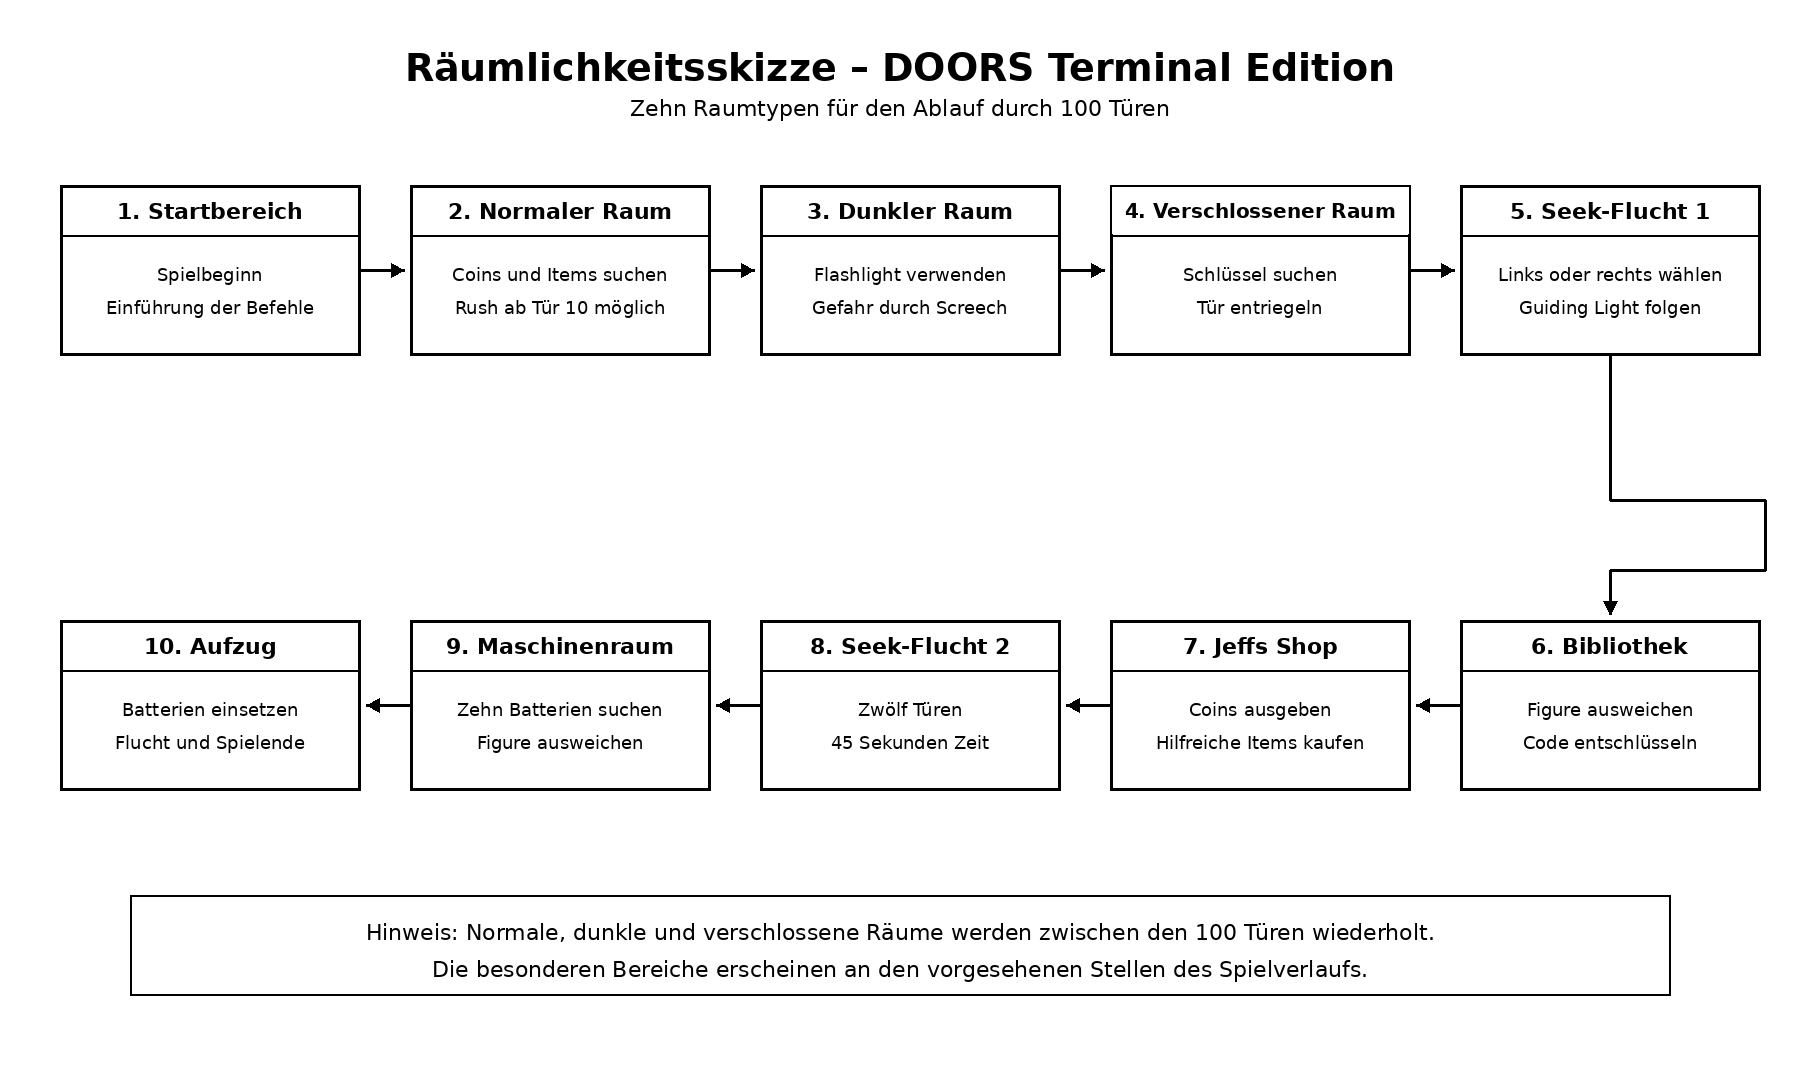
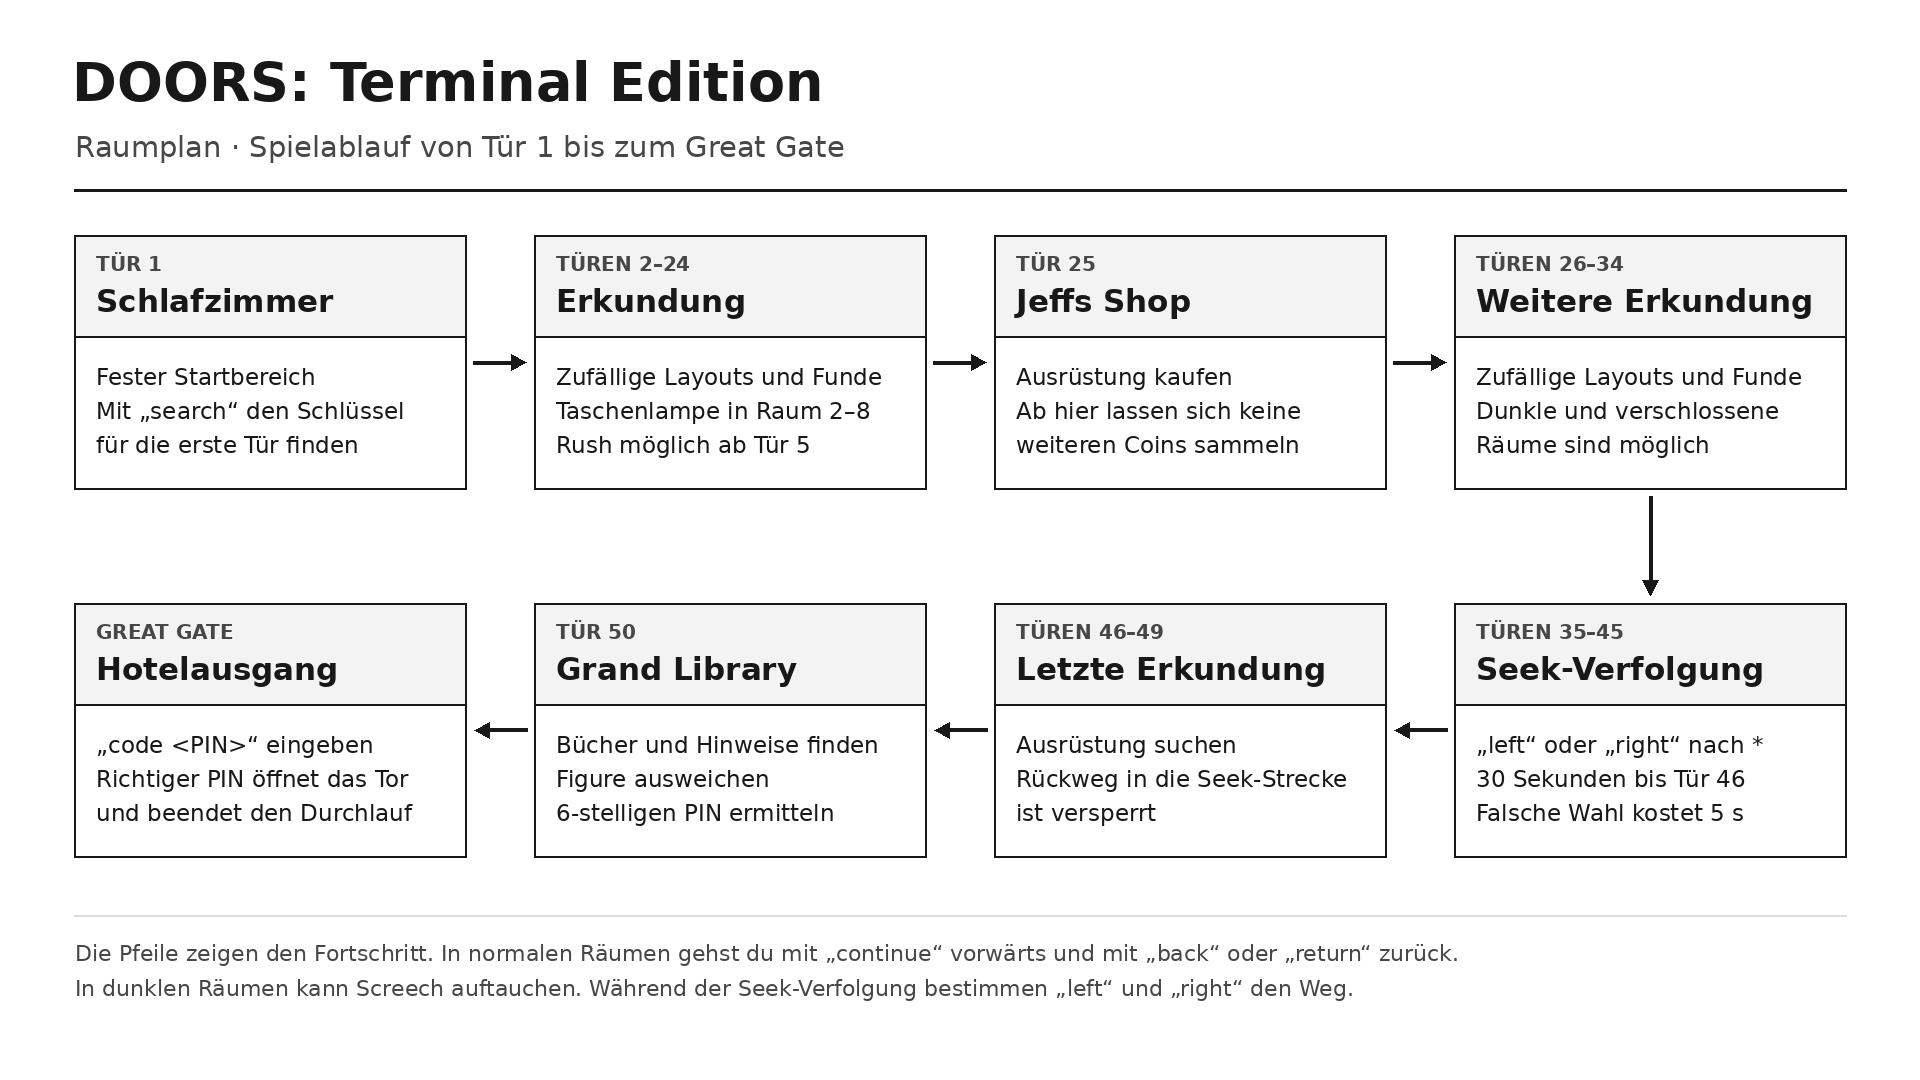
Dateien vollständig aufgereiht, keine Vermischungen

diff --git a/docs/doors-raeumlichkeiten-doc.md b/docs/doors-raeumlichkeiten-doc.md
@@ -1,63 +1,35 @@
 # Dokumentation der Räumlichkeiten
 
-## 1. Übersicht
+## Übersicht
 
-Das Spiel **DOORS: Terminal Edition** besteht aus insgesamt 100 Türen. Da viele Räume während des Spielverlaufs wiederholt oder leicht verändert vorkommen, zeigt die Skizze zehn grundlegende Raumtypen. Diese decken den vollständigen Ablauf vom Spielstart bis zur Flucht mit dem Aufzug ab.
+**DOORS: Terminal Edition** führt vom Schlafzimmer hinter Tür 1 durch ein Hotel mit 50 Räumen. Die Skizze fasst aufeinanderfolgende Räume mit ähnlichem Ablauf zusammen. Jeffs Shop, die Seek-Verfolgung und die Grand Library liegen an festen Stellen.
 
-Die Pfeile stellen die Reihenfolge dar, in welcher der Spieler die verschiedenen Bereiche erreicht. Normale, dunkle und verschlossene Räume können zwischen den besonderen Ereignissen mehrfach vorkommen.
+## Raumskizze
 
-## 2. Raumskizze
+![Raumplan vom Schlafzimmer bis zum Great Gate](../diagrams/doors-raeumlichkeiten-uml.png)
 
-![UML-Skizze der Räumlichkeiten](../diagrams/doors-raeumlichkeiten-uml.png)
+Die Pfeile zeigen den Weg zum Ausgang. In normalen Räumen gehst du mit `continue` vorwärts und mit `back` oder `return` zurück. Während der Verfolgung wählst du mit `left` oder `right` die nächste Tür.
 
-## 3. Beschreibung der Räume
+## Bereiche des Hotels
 
-### 3.1 Startbereich
+| Türen | Bereich | Ablauf |
+| --- | --- | --- |
+| 1 | Schlafzimmer | Fester Start. Mit `search` findest du den Schlüssel zur ersten verschlossenen Tür. |
+| 2–24 | Erkundung | Suche nach Münzen und Ausrüstung. In einem der Räume 2 bis 8 liegt die Taschenlampe. Ab Tür 5 kann Rush erscheinen. |
+| 25 | Jeffs Shop | Kaufe Ausrüstung mit den gesammelten Münzen. Ab dem ersten Erreichen des Shops kannst du keine weiteren Münzen sammeln. |
+| 26–34 | Weitere Erkundung | Durchsuche die Räume vor der Verfolgung. Dunkelheit und verschlossene Ausgänge sind möglich. |
+| 35–45 | Seek-Verfolgung | Nach der Cutscene hast du 30 Sekunden, um Tür 46 zu erreichen. Wähle die mit `*` markierte Seite. Eine falsche Wahl kostet fünf Sekunden. |
+| 46–49 | Letzte Erkundung | Durchsuche die letzten normalen Räume. Der Rückweg in die Seek-Strecke ist versperrt. |
+| 50 | Grand Library | Finde Bücher, entschlüssle den sechsstelligen PIN und weiche Figure aus. Mit dem richtigen PIN öffnest du das Great Gate und gewinnst. |
 
-Im Startbereich beginnt das Spiel. Der Spieler erhält eine kurze Einführung und lernt die grundlegenden Befehle kennen. Von hier aus betritt er den ersten normalen Raum.
+## Normale, dunkle und verschlossene Räume
 
-### 3.2 Normaler Raum
+Die normalen Räume verwenden acht wiederkehrende ASCII-Layouts. Funde und Zustände werden pro Raum festgelegt. Mit `look` kannst du den aktuellen Raum erneut ansehen. `map` zeigt alle Räume und die noch vorhandenen Gegenstände. `>>` markiert deinen Standort.
 
-Der normale Raum bildet den häufigsten Raumtyp. Der Spieler kann den Raum mit `search` nach Coins, Items oder Hinweisen durchsuchen. Ab Tür 10 besteht zusätzlich die Möglichkeit, dass Rush erscheint.
+In dunklen Räumen können `search` und `continue` ohne eingeschaltete, geladene Taschenlampe fehlschlagen. Wenn Screech erscheint, reagierst du mit `peek`. Bei einer verschlossenen Tür liegt ein Schlüssel im jeweiligen Raum. Ein Lockpick kann das Schloss ebenfalls öffnen und wird vor dem Schlüssel verbraucht.
 
-### 3.3 Dunkler Raum
+## Finale in der Grand Library
 
-In einem dunklen Raum ist die Orientierung eingeschränkt. Eine Flashlight erleichtert das Finden von Gegenständen und der nächsten Tür. Ohne Licht kann der Spieler die Tür übersehen. Ausserdem kann Screech erscheinen und dem Spieler bei einer zu langsamen Reaktion Schaden zufügen.
+`source` zeigt die Reihenfolge der sechs Symbole für den PIN. Mit `findbook` findest du die dazugehörigen Ziffern. `notes` listet die bereits gefundenen Zuordnungen. Wenn Figure dich hört, hast du vier Sekunden für `hide`. Nach der Entwarnung kannst du das Versteck mit `unhide` verlassen. Gib den PIN mit `code <PIN>` ein, um das Great Gate zu öffnen.
 
-### 3.4 Verschlossener Raum
-
-Die Ausgangstür dieses Raumes ist verriegelt. Der Spieler muss den Raum durchsuchen und den passenden Schlüssel finden, bevor er weitergehen kann. In einem dunklen, verschlossenen Raum ist die Suche zusätzlich erschwert.
-
-### 3.5 Erste Seek-Flucht
-
-Bei Tür 35 beginnt die erste Verfolgung durch Seek. In jedem Abschnitt muss der Spieler zwischen einer linken und einer rechten Tür wählen. Das Guiding Light markiert mit einem Stern die richtige Richtung. Der Spieler muss Tür 46 innerhalb von 45 Sekunden erreichen.
-
-### 3.6 Bibliothek
-
-Die Bibliothek befindet sich bei Tür 50 und wird von Figure bewacht. Der Spieler sucht Bücher, ordnet Symbole den passenden Zahlen zu und ermittelt daraus einen fünfstelligen Code. Da Figure sehr gut hört, kann jede Suche seine Aufmerksamkeit auslösen.
-
-### 3.7 Jeffs Shop
-
-Nach der Bibliothek erreicht der Spieler Jeffs Shop. Dort können gesammelte Coins für hilfreiche Items ausgegeben werden. Angeboten werden beispielsweise Bandaids, eine Flashlight und ein Crucifix.
-
-### 3.8 Zweite Seek-Flucht
-
-Ab Tür 75 erscheint Seek erneut. Die zweite Verfolgung funktioniert nach demselben Prinzip wie die erste, ist mit zwölf Türen jedoch länger. Der Spieler hat erneut 45 Sekunden Zeit. Eine falsche Richtung kostet fünf Sekunden.
-
-### 3.9 Maschinenraum
-
-Der Maschinenraum stellt den letzten grossen Spielbereich bei Tür 100 dar. Er besteht aus den Bereichen West, Ost, Nord, Süd und Aufzug. Der Spieler muss insgesamt zehn Batterien finden, während Figure den Bereich bewacht. Bei jeder Suche besteht die Gefahr, dass Figure den Spieler hört.
-
-### 3.10 Aufzug
-
-Der Aufzug ist das Ziel des Spiels. Sobald der Spieler alle zehn Batterien gefunden hat, kann er sie einsetzen und den Aufzug aktivieren. Dadurch entkommt er dem Gebäude und gewinnt das Spiel.
-
-## 4. Wiederverwendung der Raumtypen
-
-Die Skizze zeigt keine 100 einzelnen Räume. Stattdessen werden normale, dunkle und verschlossene Räume während des Spielverlaufs wiederholt eingesetzt. Dadurch können die 100 Türen abwechslungsreich aufgebaut werden, ohne für jede Tür eine vollständig neue Raumklasse zu benötigen.
-
-Die Seek-Fluchten, die Bibliothek, Jeffs Shop, der Maschinenraum und der Aufzug sind besondere Bereiche. Sie erscheinen nur an festgelegten Stellen und verändern den normalen Spielablauf.
-
-## 5. Zweck der Darstellung
-
-Die Darstellung dient als grobe Übersicht der Spielwelt. Sie zeigt, welche Raumtypen benötigt werden, welche Aufgabe sie besitzen und wie der Spieler vom Start bis zum Ende gelangt. Die genauen Klassen und Beziehungen der technischen Umsetzung werden separat im UML-Klassendiagramm dargestellt.
+Weitere Details stehen im [Raumplan mit Regeln pro Bereich](doors-raumplan.md) und im [README](../README.md).
